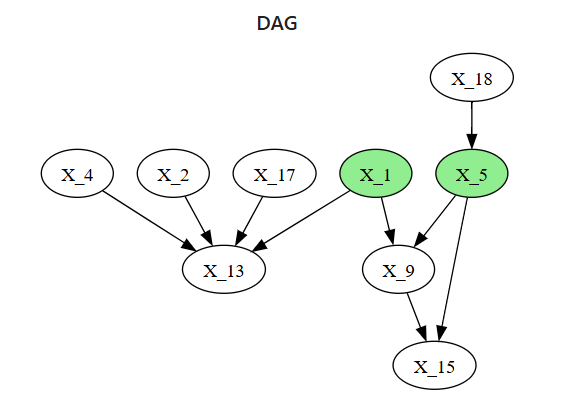
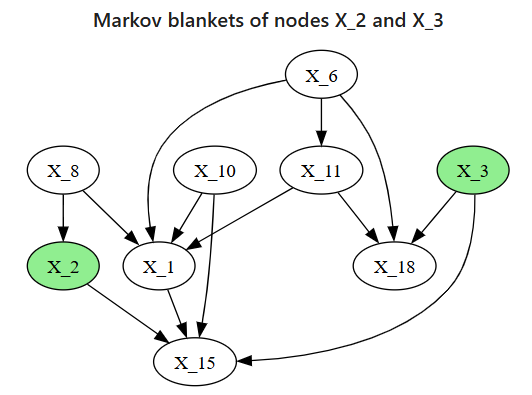
Documentation fix

diff --git a/docs/getting_strated.md b/docs/getting_strated.md
@@ -21,6 +21,7 @@ BNM relies on the following Python packages:
 | `graphviz`  | >=0.20        | For visualizing DAGs               |
 | `pandas`    | >=1.3         | For constructing and manipulating metrics tables         |
 | `numpy`     | >=1.21        | For numerical operations and array processing            |
+| `plotly`    | >=5.9.0       | For interactive visualizations            |
 
 ---
 
@@ -35,8 +36,8 @@ from bnm import BNMetrics, generate_random_dag
 #### You can generate random DAGs using the built-in utility:
 
 ```python
-G1 = generate_random_dag(n_nodes=20, edge_prob=0.08, seed=42)
-G2 = generate_random_dag(n_nodes=20, edge_prob=0.10, seed=99)
+G1 = generate_random_dag(n_nodes=20, edge_prob=0.15, seed=3)
+G2 = generate_random_dag(n_nodes=20, edge_prob=0.15, seed=2)
 ```
 ### 3. **Initialize the `BNMetrics` object**
 ```python
@@ -50,32 +51,47 @@ bnm_single = BNMetrics(G1)
 #### Generate metrics:
 ```python
 df = bnm.compare_df(
-    descriptive_metrics=["n_edges"],
-    comparison_metrics=["shd", "precision", "recall"]
-)
-print(df.head())
+    descriptive_metrics=['n_edges'],
+    comparison_metrics=['shd', 'precision', 'recall']
+).query("node_name in ['All', 'X_2', 'X_3', 'X_6']")
+
+print(df)
 ```
 | node_name | n_edges_base | n_edges | shd | precision | recall   |
 |-----------|--------------|---------|-----|-----------|----------|
-| All       | 15.0         | 19.0    | 30  | 0.105263  | 0.133333 |
-| X_8       | 3.0          | 0.0     | 3   | 0.0       | 0.0      |
-| X_15      | 1.0          | 3.0     | 4   | 0.0       | 0.0      |
-| X_1       | 5.0          | 6.0     | 11  | 0.0       | 0.0      |
-| X_6       | 2.0          | 2.0     | 4   | 0.0       | 0.0      |
+| All       | 28.0         | 28.0    | 48  | 0.107143  | 0.107143 |
+| X_2       | 7.0          | 8.0     | 12  | 0.125     | 0.142857 |
+| X_6       | 11.0         | 11.0    | 18  | 0.181818  | 0.181818 |
+| X_3       | 11.0         | 1.0     | 12  | 0.0       | 0.0      |
 
 ### 5. **Visualize the DAGs**
 #### Compare two graphs side by side:
 ```python
-bnm.compare_two_bn(nodes=["X_5", "X_18"], option=1)
+bnm.compare_two_bn(
+    nodes=['X_6'], 
+    name1='DAG 1 Markov blanket of node X_6', 
+    name2='DAG 2 Markov blanket of node X_6'
+)
 ```
-![BNM Graph Comparison](images/two_dags.png)
+<p align="center">
+  <img src="images/two_dags.png" alt="BNM Graph Comparison" />
+</p>
+
 #### Plot a single DAG:
 ```python
-bnm.plot_bn(nodes=["X_1", "X_5"], layer="d2")
+bnm.plot_bn(
+    nodes=['X_2', 'X_3'], 
+    title='Markov blankets of nodes X_2 and X_3'
+)
 ```
-![BNM Graph Single](images/one_dag.png)
+<p align="center">
+  <img src="images/one_dag.png" alt="BNM Graph Single" />
+</p>
+
 ## 📚 More
 
-- [API Reference](https://github.com/averinpa/bnm/blob/main/docs/api_reference.md)
-- [Paper (Averin et al., 2025)](https://doi.org/10.20944/preprints202503.0943.v1)
-- [R Version of DAGMetrics](https://github.com/averinpa/DAGMetrics)
+- [API Reference](https://github.com/averinpa/bnm/blob/main/docs/api_reference.md)  
+### Use Cases: 
+- [Evaluate Single DAG](https://github.com/averinpa/bnm/blob/main/use%20cases/evaluate%20single%20DAG.ipynb)
+- [Compare Two DAGs](https://github.com/averinpa/bnm/blob/main/use%20cases/compare%20two%20DAGs.ipynb)
+- [Compare Algorithms](https://github.com/averinpa/bnm/blob/main/use%20cases/compare%20algorithms.ipynb)